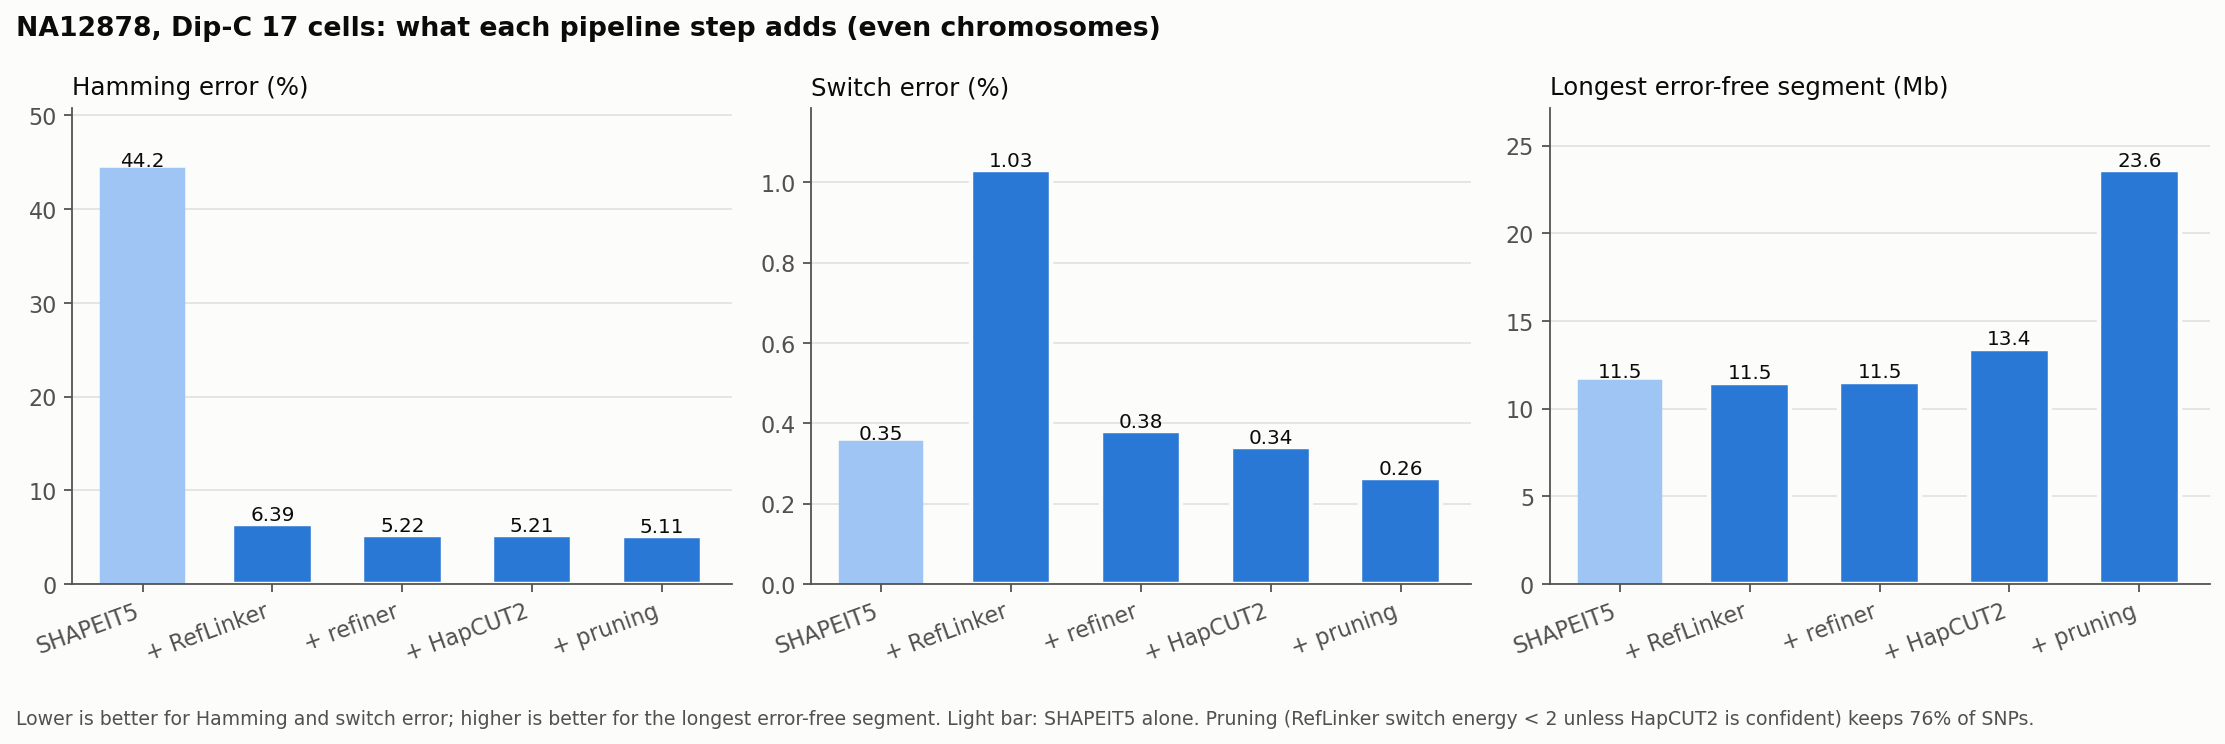
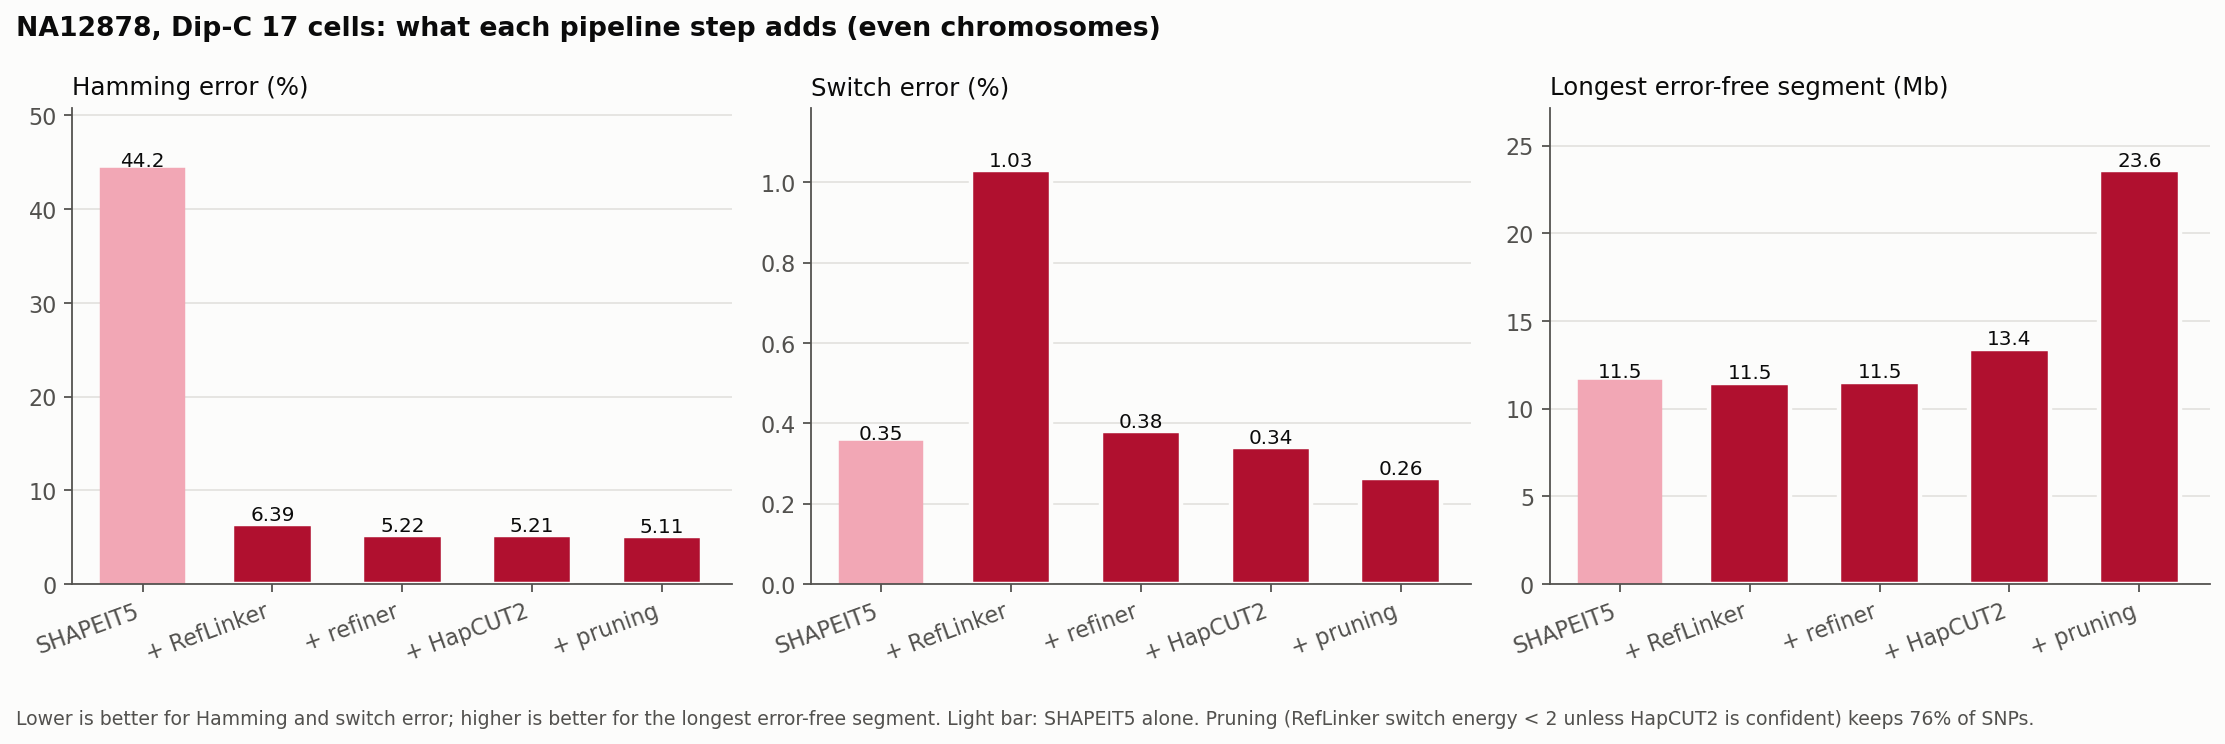
Supervisor figures: crimson fig2; viridian 2x2 fig3 with SNPs retained after pruning

Changed region(s): [[0.6822, 0.2164, 0.9924, 0.8038], [0.3721, 0.2164, 0.6512, 0.8038], [0.031, 0.2164, 0.3411, 0.8038]]

diff --git a/NA12878-phaser-verification/figures/supervisor_2026-11-19/README.md b/NA12878-phaser-verification/figures/supervisor_2026-11-19/README.md
@@ -3,5 +3,5 @@
 - `fig2_dipc17_ablation.png`: NA12878 Dip-C 17 cells, even chromosomes (October runs). What each step adds:
   SHAPEIT5 → + RefLinker → + hybrid refiner → + HapCUT2 (NA12878 WGS reads) → + pruning (RefLinker switch energy < 2
   unless HapCUT2 quality ≥ 30). Shows Hamming error, switch error and the longest error-free segment.
-- `fig3_limca_cells.png`: NA12878 LiMCA with 17 / 50 / 100 / 220 cells. Full pipeline with the same settings at every
-  cell count (hybrid window 101, switch-energy voting ≥ 0, HapCUT2 quality ≥ 30, pruning < 2). Same three metrics.
+- `fig3_limca_cells.png`: NA12878 LiMCA with 17 / 50 / 100 / 220 cells (RefLinker gets the Hi-C reads of those N cells; HapCUT2 always gets the same bulk NA12878 WGS reads). Full pipeline with the same settings at every
+  cell count (hybrid window 101, switch-energy voting >= 0, HapCUT2 quality >= 30, pruning < 2). 2x2: Hamming error, switch error, longest error-free segment, phased SNPs retained after pruning.
